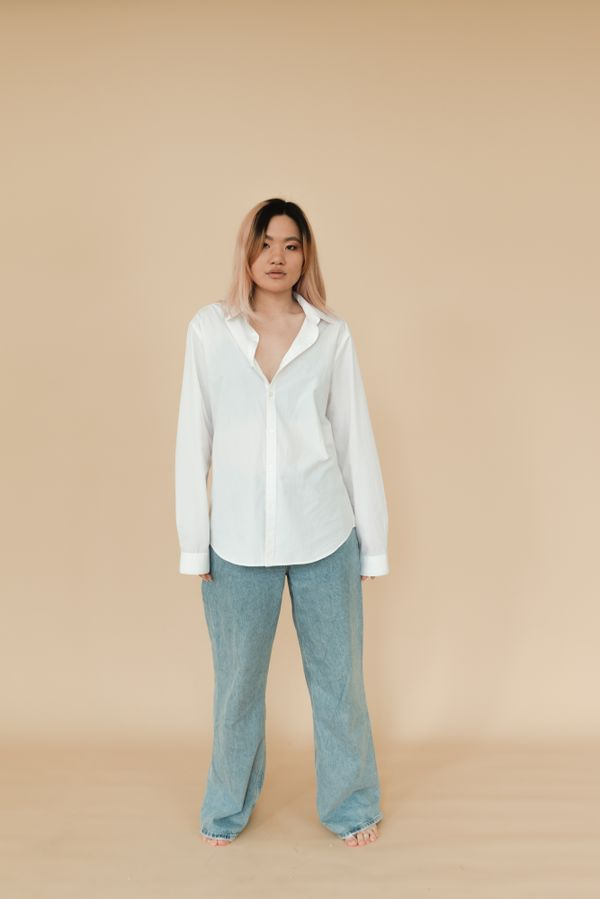
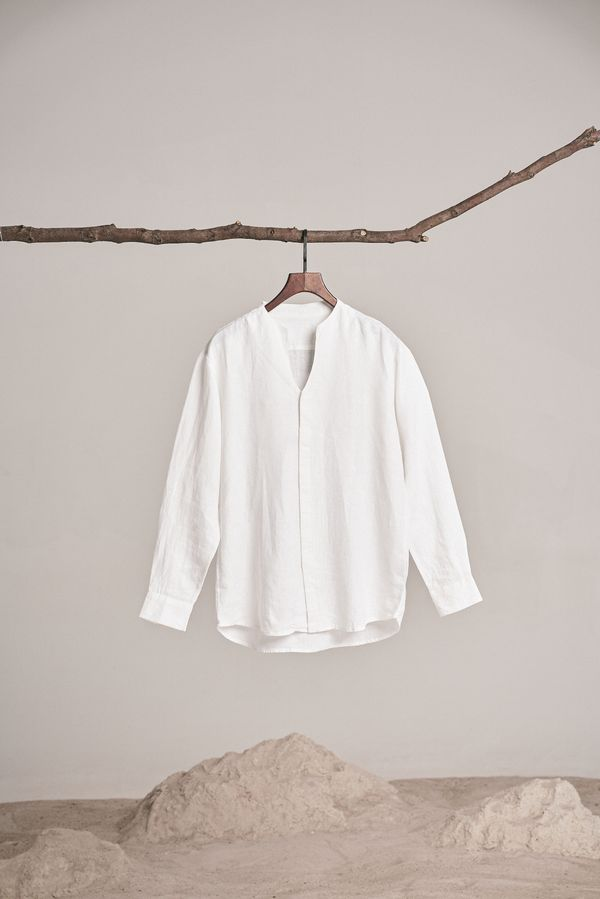
Clarify sample photos do not predict garment fit

diff --git a/src/app/page.tsx b/src/app/page.tsx
@@ -113,7 +113,7 @@ export default function Home() {
             </div>
             <div className="art-card art-bottom">
               {/* eslint-disable-next-line @next/next/no-img-element */}
-              <img src="/demo/women-white-shirt.jpg" alt="Woman wearing a white shirt and jeans" />
+              <img src="/demo/women-navy-blouse.jpg" alt="Woman wearing a navy blouse" />
               <span>WOMEN’S STYLE</span>
             </div>
             <div className="art-card art-shoe">
@@ -148,7 +148,7 @@ export default function Home() {
             </div>
             <div className="builder-action">
               <div className="sparkle" aria-hidden="true">✳</div>
-              <p>Good outfits start with the right fit.</p>
+              <p>Good outfits start with what you like.</p>
               <button type="button" className="button button-light" onClick={() => void buildOutfits(profile)} disabled={loading}>
                 {loading ? 'Putting looks together…' : 'Build my outfits'} <span aria-hidden="true">→</span>
               </button>
@@ -160,8 +160,8 @@ export default function Home() {
         {result && (
           <section id="results" className="results-section" aria-live="polite">
             <div className="section-heading">
-              <div><span className="eyebrow">02 / YOUR LOOKS</span><h2>Made for your fit and taste.</h2></div>
-              <p>{result.demo ? 'Sample looks' : 'From partner stores'} within your £{profile.budget} budget. Showing {result.outfits.length} of {result.total} looks.</p>
+              <div><span className="eyebrow">02 / YOUR LOOKS</span><h2>Looks for your choices.</h2></div>
+              <p>{result.demo ? `Sample combinations using a £${profile.budget} example budget` : `Partner items within your £${profile.budget} budget`}. Showing {result.outfits.length} of {result.total} looks.</p>
             </div>
             {result.outfits.length === 0 ? (
               <div className="empty-state">
@@ -189,7 +189,7 @@ export default function Home() {
                     </div>
                     <div className="outfit-card-body">
                       <h3>{outfit.style[0].toUpperCase() + outfit.style.slice(1)} look</h3>
-                      <p>{outfit.reason} Matched to your sizes and budget.</p>
+                      <p>{outfit.reason} {result.demo ? 'Style example only; the photo does not show how it fits you.' : 'Available in the size labels you selected. Check the retailer’s fit guide.'}</p>
                       <ul>{outfit.items.map(item => (
                         <li key={item.id}>
                           <div className="product-name">
@@ -212,7 +212,7 @@ export default function Home() {
             {error && <p role="alert" className="error-message">{error} Please try again.</p>}
             <p className="demo-note">
               {result.demo ? (
-                <><strong>Sample looks:</strong> The photos show clothing styles, not products for sale. Sizes and prices are examples for testing the outfit builder. No store links are available yet.</>
+                <><strong>Sample looks:</strong> Photos are style inspiration and may show other clothes on the model. They do not show the exact item, its cut, or how it would fit you. Sizes and prices are examples, and these items are not for sale here.</>
               ) : (
                 <><strong>Partner products:</strong> Check the final size, price, availability and delivery on the retailer’s site before buying. Fit&Shop may earn a commission from store links.</>
               )}

diff --git a/src/app/profile/page.tsx b/src/app/profile/page.tsx
@@ -51,7 +51,7 @@ export default function ProfilePage() {
             <div className="profile-art"><ItemArt category="shoe" color="brown" /></div>
             <div className="profile-visual-caption">A whole look, made around your budget.</div>
           </div>
-          <p className="profile-privacy">Your preferences stay in this browser for this demo. No address or account is needed.</p>
+          <p className="profile-privacy">Your preferences stay in this browser for this demo. No address or account is needed. The sample photos are not a virtual try-on.</p>
         </div>
         <form className="profile-form" onSubmit={saveAndBuild}>
           <div className="form-heading"><span className="eyebrow">01 / THE DETAILS</span><h2>Make it yours.</h2><p>You can change these whenever you like.</p></div>

diff --git a/docs/demo-photo-sources.md b/docs/demo-photo-sources.md
@@ -15,7 +15,7 @@ These are styling examples, **not** retailer product photos. Names, prices, size
 | `men-white-trainers.jpg` | [13157838](https://www.pexels.com/photo/white-sneakers-on-floor-13157838/) |
 | `men-black-derby.jpg` | [292998](https://www.pexels.com/photo/pair-of-black-leather-derby-shoes-placed-on-brown-surface-292998/) |
 | `men-brown-loafers.jpg` | [8394709](https://www.pexels.com/photo/brown-leather-slip-on-shoes-near-wristwatch-8394709/) |
-| `women-white-shirt.jpg` | [7752615](https://www.pexels.com/photo/woman-in-white-button-down-shirt-and-denim-jeans-7752615/) |
+| `women-white-shirt.jpg` | [22441278](https://www.pexels.com/photo/shirt-on-hanger-on-branch-22441278/) |
 | `women-black-top.jpg` | [9771265](https://www.pexels.com/photo/woman-in-black-ribbed-mock-neck-crop-tank-top-and-blue-denim-jeans-9771265/) |
 | `women-navy-blouse.jpg` | [13895355](https://www.pexels.com/photo/model-posing-in-navy-blue-blouse-13895355/) |
 | `women-black-trousers.jpg` | [6046220](https://www.pexels.com/photo/black-trousers-and-transparent-dress-on-hanger-placed-on-chandelier-6046220/) |
